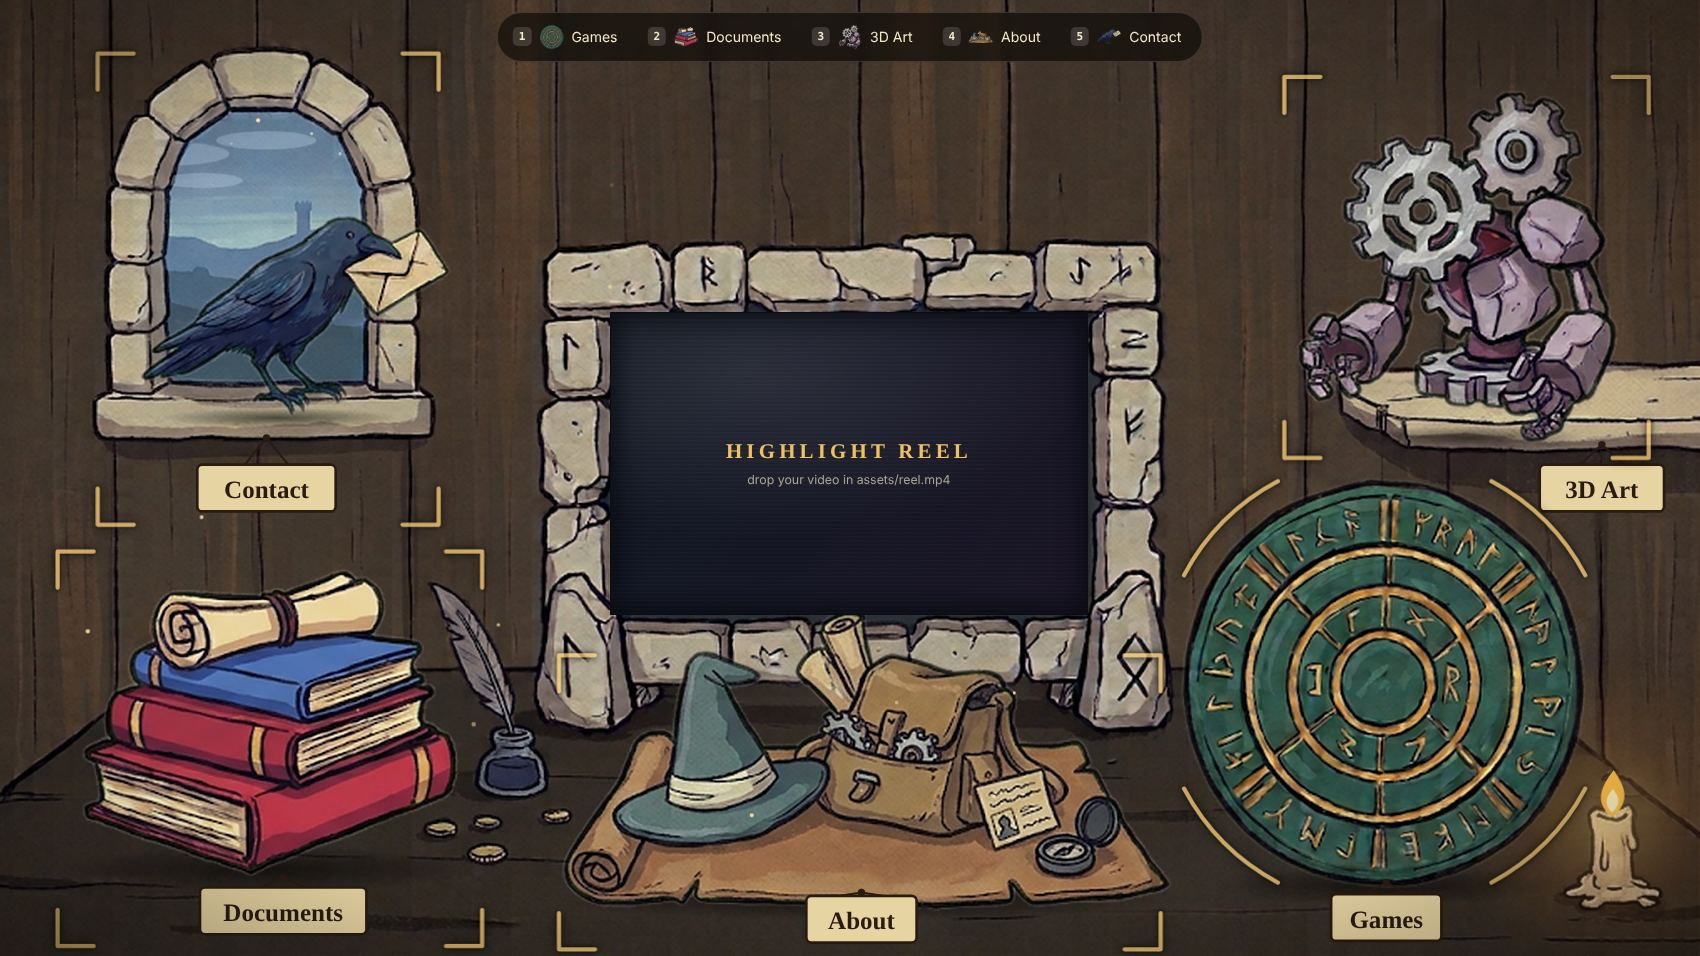
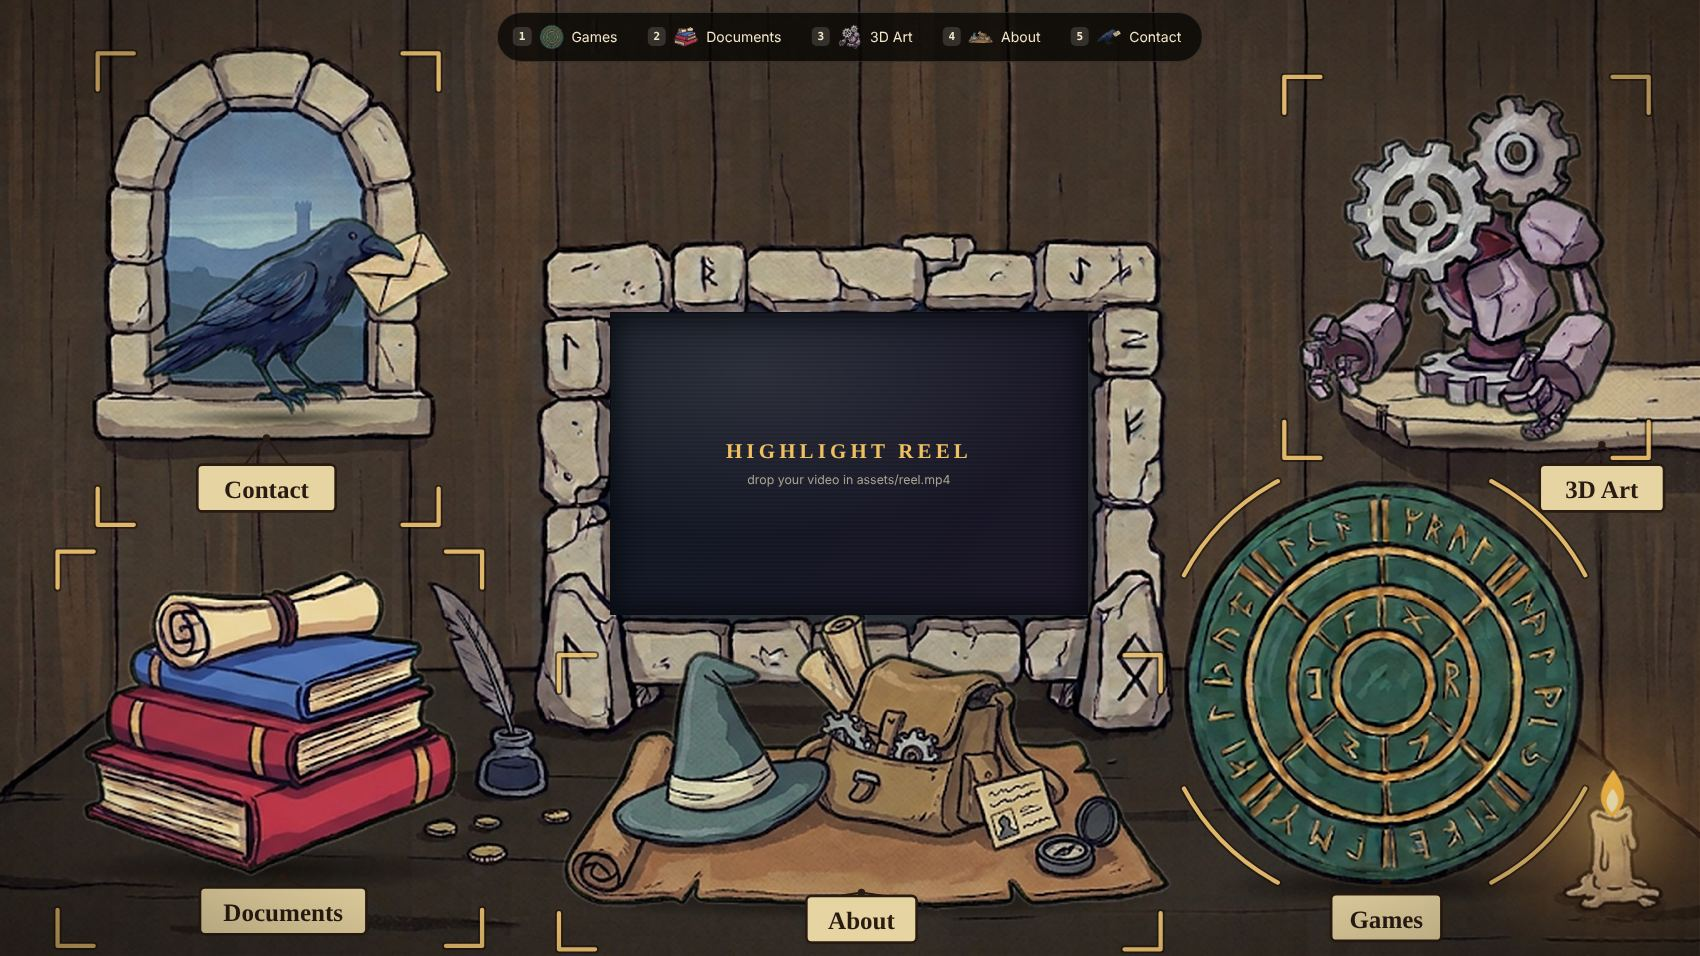
Add files via upload

diff --git a/concepts/scenes/workshop.js b/concepts/scenes/workshop.js
@@ -1,6 +1,7 @@
 /* Concept E - The Workshop (hand-drawn layered art).
    Layers: art2/plate.jpg (empty room) + one transparent cut-out per object (raven, construct, books, kit, disc).
    All art coordinates below are in source-image pixels (1024 x 572); K converts them to scene units.
+   Hover = a pre-baked gold outline image (NAME-ring.png) that fades in: no CSS filters, no per-frame JS, so it stays smooth.
    To swap art: replace the PNGs in concepts/art2/ (same canvas position) and adjust the numbers here. */
 PF.init({
   theme:'workshop',
@@ -19,8 +20,7 @@ PF.init({
     P.defs(
       '<radialGradient id="shd"><stop offset="0" stop-color="#050302" stop-opacity=".6"/><stop offset=".6" stop-color="#050302" stop-opacity=".25"/><stop offset="1" stop-color="#050302" stop-opacity="0"/></radialGradient>'+
       '<radialGradient id="cdl"><stop offset="0" stop-color="#ffcf70" stop-opacity=".5"/><stop offset=".5" stop-color="#ff9a3c" stop-opacity=".16"/><stop offset="1" stop-color="#ff9a3c" stop-opacity="0"/></radialGradient>'+
-      '<radialGradient id="vig" cx=".5" cy=".5" r=".78"><stop offset=".62" stop-color="#0a0604" stop-opacity="0"/><stop offset="1" stop-color="#0a0604" stop-opacity=".5"/></radialGradient>'+
-      '<clipPath id="glass"><path d="M103 203 L103 130 C103 92 130 66 162 66 C194 66 222 92 222 130 L222 203Z"/></clipPath>'
+      '<radialGradient id="vig" cx=".5" cy=".5" r=".78"><stop offset=".62" stop-color="#0a0604" stop-opacity="0"/><stop offset="1" stop-color="#0a0604" stop-opacity=".5"/></radialGradient>'
     );
     function grp(parent,attrs){return el('g',attrs||{},parent)}
     function img(parent,name,box){var i=el('image',{x:box.x,y:box.y,width:box.w,height:box.h,'pointer-events':'none'},parent);i.setAttribute('href','art2/'+name+'.png');return i}
@@ -33,14 +33,7 @@ PF.init({
     var world=grp(svg,{transform:T,'pointer-events':'none'});
     [[165,520,128,14],[520,538,190,13],[832,530,108,12],[882,262,72,7],[170,250,70,6]].forEach(function(s){
       el('ellipse',{cx:s[0],cy:s[1],rx:s[2],ry:s[3],fill:'url(#shd)'},world)});
-    el('circle',{class:'pulse',cx:968,cy:492,r:96,fill:'url(#cdl)'},world);
-
-    /* 3 - the window: drifting clouds and a few stars, clipped to the glass */
-    var sky=grp(world,{'clip-path':'url(#glass)'});
-    var cl=grp(sky,{class:'drift'});
-    [[130,92,36,7],[188,84,30,5.5],[150,108,24,4.5]].forEach(function(c){el('ellipse',{cx:c[0],cy:c[1],rx:c[2],ry:c[3],fill:'#b9cde2',opacity:.38},cl)});
-    [[125,76],[158,72],[190,80],[142,86],[207,92]].forEach(function(s,i){
-      var t=el('circle',{class:'twinkle',cx:s[0],cy:s[1],r:1.1,fill:'#fff3d0'},sky);t.style.animationDelay=(-i*.7)+'s'});
+    el('circle',{cx:968,cy:492,r:96,fill:'url(#cdl)'},world);
 
     /* 4 - cut-out objects as clickable layers */
     function tag(parent,text,cx,cy,stringTop){
@@ -49,20 +42,24 @@ PF.init({
       el('circle',{cx:cx,cy:stringTop,r:2.2},g);
       el('rect',{x:cx-w/2,y:cy-14,width:w,height:28,rx:3},g);
       var t=el('text',{x:cx,y:cy+1},g);t.textContent=text;return g}
-    function object(key,name,fx,hit,anim,label){
-      var g=el('g',{class:'cut'},svg),w=grp(g,{transform:T}),lift=grp(w,{class:'lift'}),idle=grp(lift,anim?{class:anim}:{});
-      var im=img(idle,name,CUT[name]);
+    function object(key,name,hit,label){
+      var g=el('g',{class:'cut'},svg),w=grp(g,{transform:T}),PAD=10,c=CUT[name];
+      var ring=el('image',{class:'ring',x:c.x-PAD,y:c.y-PAD,width:c.w+2*PAD,height:c.h+2*PAD,'pointer-events':'none'},w);ring.setAttribute('href','art2/'+name+'-ring.png');
+      img(w,name,c);
       var tg=grp(w,{});tag(tg,label[0],label[1],label[2],label[3]);
       /* hit box + brackets are in scene units */
       var b=[OX+hit[0]*K,hit[1]*K,(hit[2]-hit[0])*K,(hit[3]-hit[1])*K];
       P.hot(key,g,{box:b,frame:b});
-      return {g:g,idle:idle,im:im};
+      /* dark under-stroke so the gold brackets read on light stone (no filters) */
+      [].forEach.call(g.querySelectorAll('.hbr path'),function(pth){
+        var u=pth.cloneNode();u.setAttribute('style','stroke:#1a0f08;stroke-width:7.5;opacity:.6;animation:none;filter:none');pth.parentNode.insertBefore(u,pth)});
+      return {g:g};
     }
-    object('contact','raven',0,[62,32,266,314],'idle-sway',['Contact',163,292,262]);
-    object('art','construct',0,[772,46,990,274],'idle-breathe',['3D Art',962,292,266]);
-    object('docs','books',0,[38,330,292,566],null,['Documents',173,545,525]);
-    object('about','about',0,[338,392,698,568],null,['About',519,550,534]);
-    var disc=object('games','disc',0,[702,282,962,566],null,['Games',833,549,528]);
+    object('contact','raven',[62,32,266,314],['Contact',163,292,262]);
+    object('art','construct',[772,46,990,274],['3D Art',962,292,266]);
+    object('docs','books',[38,330,292,566],['Documents',173,545,525]);
+    object('about','about',[338,392,698,568],['About',519,550,534]);
+    var disc=object('games','disc',[702,282,962,566],['Games',833,549,528]);
     /* round brackets for the round object: four arcs instead of square corners */
     (function(){
       var old=disc.g.querySelector('.hbr');if(old)old.remove();
@@ -70,27 +67,17 @@ PF.init({
       var cx=OX+832*K,cy=408*K,r=136*K;
       [45,135,225,315].forEach(function(a){
         var p=function(d){var t=(a+d)*Math.PI/180;return (cx+r*Math.cos(t)).toFixed(1)+' '+(cy+r*Math.sin(t)).toFixed(1)};
-        el('path',{d:'M'+p(-17)+' A'+r.toFixed(1)+' '+r.toFixed(1)+' 0 0 1 '+p(17)},br)});
+        var d='M'+p(-17)+' A'+r.toFixed(1)+' '+r.toFixed(1)+' 0 0 1 '+p(17);
+        el('path',{d:d,style:'stroke:#1a0f08;stroke-width:7.5;opacity:.6;animation:none;filter:none'},br);
+        el('path',{d:d},br)});
     })();
 
-    /* the disc turns slowly; faster while it is the focused object */
-    (function(){
-      var c=CUT.disc,cx=c.x+c.w/2,cy=c.y+c.h/2,a=0,sp=3,last=performance.now(),still=matchMedia('(prefers-reduced-motion: reduce)').matches;
-      if(still)return;
-      (function tick(t){
-        var dt=Math.min(.05,(t-last)/1000);last=t;
-        var tgt=disc.g.classList.contains('on')||disc.g.matches(':hover')?46:3;
-        sp+=(tgt-sp)*Math.min(1,dt*4);a=(a+sp*dt)%360;
-        disc.idle.setAttribute('transform','rotate('+a.toFixed(2)+' '+cx+' '+cy+')');
-        requestAnimationFrame(tick)})(last);
-    })();
 
     /* 5 - candle flame (the candle is part of the empty room, so the flame sits on top) */
     var fl=grp(svg,{transform:T,'pointer-events':'none'}),f1=grp(fl,{transform:'translate(968,486)'}),f2=grp(f1,{class:'wflame'});
     el('path',{d:'M0 -27 C8 -15 10 -6 0 3 C-10 -6 -8 -15 0 -27Z',fill:'#ffc04a'},f2);
     el('path',{d:'M0 -15 C4 -10 5 -5 0 0 C-5 -5 -4 -10 0 -15Z',fill:'#fff1bd'},f2);
 
-    P.motes(grp(svg,{'pointer-events':'none'}),16,{x0:80,x1:1520,y0:180,y1:820,color:'#ffe3a8',r:1.1,rv:1.2,dy:46,dx:22});
     el('rect',{x:0,y:0,width:1600,height:900,fill:'url(#vig)','pointer-events':'none'},svg);
   }
 });

diff --git a/concepts/core/core.css b/concepts/core/core.css
@@ -13,7 +13,7 @@ a{color:var(--acc-hi)}
 button{font:inherit;color:inherit}
 
 /* ---------- top bar ---------- */
-.pf-bar{position:fixed;left:0;right:0;top:0;height:var(--bar);display:flex;align-items:center;justify-content:space-between;gap:12px;padding:0 16px;background:var(--topbar);backdrop-filter:blur(6px);z-index:30;color:#efe6cf;border-bottom:1px solid rgba(255,255,255,.08)}
+.pf-bar{position:fixed;left:0;right:0;top:0;height:var(--bar);display:flex;align-items:center;justify-content:space-between;gap:12px;padding:0 16px;background:var(--topbar);z-index:30;color:#efe6cf;border-bottom:1px solid rgba(255,255,255,.08)}
 .pf-bar b{font-family:var(--head);letter-spacing:.04em;font-size:16px;white-space:nowrap}
 .pf-bar b span{opacity:.7;font-weight:400;font-size:13px;margin-left:8px;letter-spacing:.08em;text-transform:uppercase}
 .pf-bar nav{display:flex;gap:6px;align-items:center}
@@ -68,7 +68,7 @@ button{font:inherit;color:inherit}
 .pf-reel.circle{border-radius:50%}
 
 /* ---------- quick menu + hint + tooltip ---------- */
-.pf-menu{position:absolute;left:50%;bottom:10px;transform:translateX(-50%);display:flex;gap:6px;z-index:8;background:rgba(8,6,4,.62);backdrop-filter:blur(6px);padding:6px;border-radius:999px;border:1px solid rgba(255,255,255,.14)}
+.pf-menu{position:absolute;left:50%;bottom:10px;transform:translateX(-50%);display:flex;gap:6px;z-index:8;background:rgba(8,6,4,.8);padding:6px;border-radius:999px;border:1px solid rgba(255,255,255,.14)}
 .pf-menu button{display:flex;align-items:center;gap:7px;border:1px solid transparent;background:transparent;color:#f3e8c9;padding:6px 14px 6px 8px;border-radius:999px;cursor:pointer;font-size:14px;white-space:nowrap}
 .pf-menu button kbd{font:600 11px/1 ui-monospace,monospace;background:rgba(255,255,255,.14);padding:4px 6px;border-radius:5px}
 .pf-menu button:hover,.pf-menu button:focus-visible{border-color:var(--acc-hi);background:rgba(255,255,255,.08);outline:none}
@@ -79,7 +79,7 @@ button{font:inherit;color:inherit}
 .pf-tip b{display:block;font-family:var(--head);font-size:15px;color:var(--acc-hi)}
 
 /* ---------- panel ---------- */
-.pf-over{position:fixed;left:0;right:0;bottom:0;top:var(--bar);z-index:50;display:none;place-items:center;padding:14px;background:rgba(3,2,6,.62);backdrop-filter:blur(3px)}
+.pf-over{position:fixed;left:0;right:0;bottom:0;top:var(--bar);z-index:50;display:none;place-items:center;padding:14px;background:rgba(3,2,6,.8)}
 .pf-over.open{display:grid;animation:fadein .2s}
 @keyframes fadein{from{opacity:0}}
 .pf-frame{position:relative;width:min(1060px,100%);height:min(780px,100%);display:flex;flex-direction:column;background:var(--pbg);color:var(--ink);border:2px solid var(--acc);border-radius:14px;box-shadow:0 30px 80px var(--pshadow),0 0 0 6px rgba(0,0,0,.25);animation:pop .25s cubic-bezier(.2,.9,.3,1.2)}
@@ -256,24 +256,20 @@ body[data-theme=workshop]{--edge:#150e09;--pbg:#ead9b0;--ink:#2e2015;--ink2:#6a5
 .pf-reel.rect{box-shadow:0 0 0 1px #0b0d12}
 .pf-reel.rect:after{content:"";position:absolute;inset:0;pointer-events:none;box-shadow:inset 0 0 22px 7px rgba(6,8,12,.72)}
 .pf-reel.rect .pf-snd{z-index:3}
-.hot.cut .lift{transition:transform .28s cubic-bezier(.2,.8,.3,1)}
-.hot.cut:hover .lift,.hot.cut:focus-visible .lift,.hot.cut.on .lift{transform:translateY(-4px)}
-.hot.cut:hover,.hot.cut:focus-visible,.hot.cut.on,.hot.cut.peek{filter:brightness(1.1) saturate(1.08) drop-shadow(2px 0 0 #ffd27a) drop-shadow(-2px 0 0 #ffd27a) drop-shadow(0 2px 0 #ffd27a) drop-shadow(0 -2px 0 #ffd27a) drop-shadow(0 0 9px rgba(255,210,122,.6))}
-.pf-stage.spot .hot.cut:not(.on){filter:brightness(.8) saturate(.82)}
+.hot.cut,.hot.cut:hover,.hot.cut:focus-visible,.hot.cut.on,.hot.cut.peek,.pf-stage.spot .hot.cut:not(.on){filter:none}
+.hot.cut .ring{opacity:0;transition:opacity .16s ease-out}
+.hot.cut:hover .ring,.hot.cut:focus-visible .ring,.hot.cut.on .ring,.hot.cut.peek .ring{opacity:1}
+.hot.cut .hbr path{filter:none;animation:none;opacity:.85}
+.hot.cut:hover .hbr path,.hot.cut.on .hbr path,.hot.cut.peek .hbr path{opacity:1}
+.pf-stage.spot .hot.cut:not(.on) .hbr path{opacity:.5}
 .hot.cut .wtag rect{fill:#e6d4a2;stroke:#2a1b12;stroke-width:1.6;transition:fill .2s}
 .hot.cut .wtag path{fill:none;stroke:#2a1b12;stroke-width:1.3;stroke-linecap:round}
 .hot.cut .wtag circle{fill:#2a1b12}
 .hot.cut .wtag text{fill:#2a1b12;font:700 15px Kalam,"Segoe Print","Bradley Hand","Comic Sans MS",cursive;text-anchor:middle;dominant-baseline:central;pointer-events:none}
 .hot.cut:hover .wtag rect,.hot.cut:focus-visible .wtag rect,.hot.cut.on .wtag rect,.hot.cut.peek .wtag rect{fill:#ffd27a}
-.idle-sway{animation:sway 6s ease-in-out infinite alternate;transform-box:fill-box;transform-origin:50% 100%}
-@keyframes sway{from{transform:rotate(-.9deg)}to{transform:rotate(.9deg)}}
-.idle-breathe{animation:breathe2 5s ease-in-out infinite;transform-box:fill-box;transform-origin:50% 100%}
-@keyframes breathe2{50%{transform:scale(1.006,1.016)}}
-.drift{animation:drift 70s linear infinite alternate}
-@keyframes drift{from{transform:translateX(-26px)}to{transform:translateX(30px)}}
 .wflame{animation:wflame 1.6s ease-in-out infinite alternate;transform-box:fill-box;transform-origin:50% 100%}
 @keyframes wflame{0%{transform:scale(1,1) skewX(0)}35%{transform:scale(.94,1.08) skewX(2deg)}70%{transform:scale(1.04,.94) skewX(-2deg)}100%{transform:scale(.97,1.05) skewX(1deg)}}
-@media (prefers-reduced-motion:reduce){.idle-sway,.idle-breathe,.drift,.wflame,.twinkle,.mote{animation:none}}
+@media (prefers-reduced-motion:reduce){.wflame{animation:none}}
 @media (min-width:761px){
   body[data-theme=workshop] .pf-menu{bottom:auto;top:12px}
   body[data-theme=workshop] .pf-hint{top:64px}

diff --git a/concepts/index.html b/concepts/index.html
@@ -43,7 +43,7 @@ footer{text-align:center;color:var(--ink2);padding:10px 20px 40px}
       <a class="th" href="workshop.html"><img src="thumbs/workshop.jpg" alt="The Workshop concept"></a>
       <div class="b"><small>Concept E - hand-drawn, newest</small><h2>The Workshop</h2>
         <p>A wooden wizard's workshop drawn by hand. The reel plays inside a runestone frame. Disc = games, books = documents, construct = 3D art, hat and satchel = about, raven in the window = contact.</p>
-        <ul><li>Each object is its own layer: gold outline, lift and label on hover</li><li>Animated: turning disc, flickering candle, drifting clouds, swaying raven</li><li>Art is easy to swap: replace the PNGs in <code>art2/</code></li></ul>
+        <ul><li>Each object is its own layer: gold outline, lift and label on hover</li><li>Smooth hover: pre-drawn gold outline, label highlight, flickering candle</li><li>Art is easy to swap: replace the PNGs in <code>art2/</code></li></ul>
         <a class="btn" href="workshop.html">Open</a></div>
     </article>
     <article class="card">
